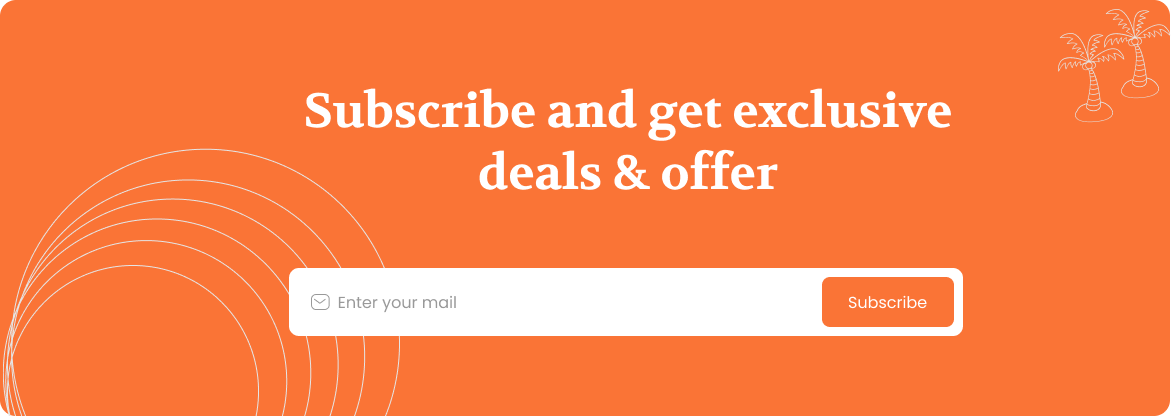
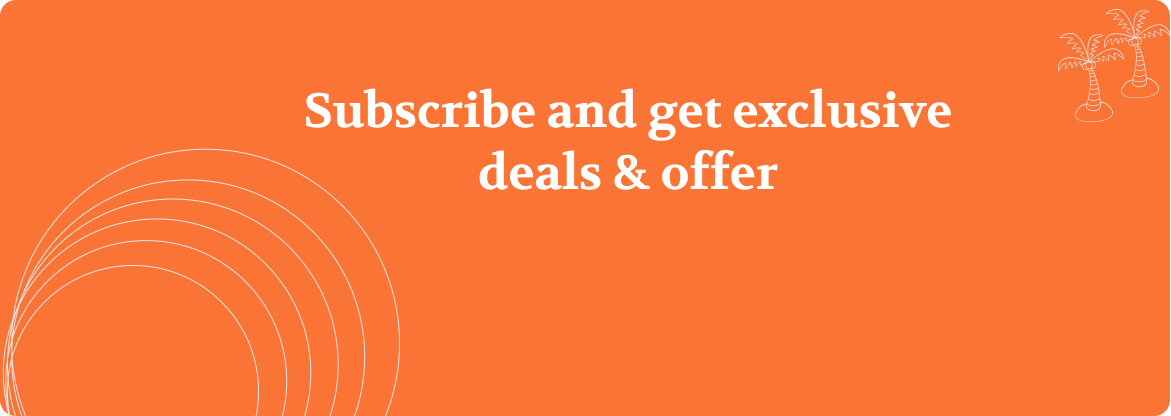
new

Changed region(s): [[0.2459, 0.625, 0.8301, 0.8125]]

diff --git a/styles.css b/styles.css
@@ -63,14 +63,15 @@ body {
 .btn {
     display: inline-block;
     padding: 10px 20px;
-    background-color: #ff6200;
-    color: white;
+    background-color: white;
+    color: #f26722;
+    border-style: solid;
     text-decoration: none;
     border-radius: 5px;
     margin-top: 20px;
 }
 .search-bar {
-    display: flex;
+    display: flex;  
     justify-content: center;
     gap: 10px;
     padding: 60px;
@@ -423,12 +424,17 @@ body {
     color: white;
     padding: 30px;
     text-align: center;
-    border-radius: 10px;
+    height: 416px;
+    width: 1170px;
+    align-content: center;
+    border-radius: 12px;
     margin-bottom: 40px;
+    margin-left: auto;
+    margin-right: auto;
 }
 .subscribe-section h2 {
     margin-bottom: 10px;
-    font-size: 24px;
+    font-size: px;
 }
 
 .subscribe-form {
@@ -447,7 +453,7 @@ body {
 .subscribe-form button {
     padding: 10px 20px;
     background: white;
-    color: #f26722;
+    color: #fa7436;
     border: none;
     margin-left: 10px;
     border-radius: 5px;
@@ -464,11 +470,13 @@ body {
     flex: 1;
     min-width: 200px;
     margin: 10px;
+    text-align: left;
 }
 
 .footer-column h3 {
     margin-bottom: 10px;
     font-size: 18px;
+    text-align: left;
 }
 
 .footer-column ul {
@@ -483,19 +491,6 @@ body {
     text-decoration: none;
     color: #333;
 }
-
-.social-icons {
-    display: flex;
-    gap: 10px;
-    margin-top: 10px;
-}
-
-.social-icons a {
-    text-decoration: none;
-    font-size: 20px;
-    color: #333;
-}
-
 .copyright {
     text-align: left;
     margin-top: 30px;

diff --git a/index.html b/index.html
@@ -185,10 +185,8 @@
             </section>
         
     <div class="footer-container">
-        
-        
         <div class="subscribe-section">
-            <img src="assets/Subscribe.png" alt="Subscribe">
+           <!-- <img src="assets/subs bg.png" alt="Subscribe"> -->
             <h2>Subscribe and get exclusive deals & offers</h2>
             <div class="subscribe-form">
                 <input type="email" placeholder="Enter your mail">
@@ -230,9 +228,9 @@
             </div>
         </div>
        <hr class="end-line"> 
-        <div class="copyright">
+        <span class="copyright">
             Copyright © Trabook 2022. All rights reserved. <span class="terms">Terms & Conditions</span>
-        </div>
+        </span>
     </div>
 </body>
 </html>
